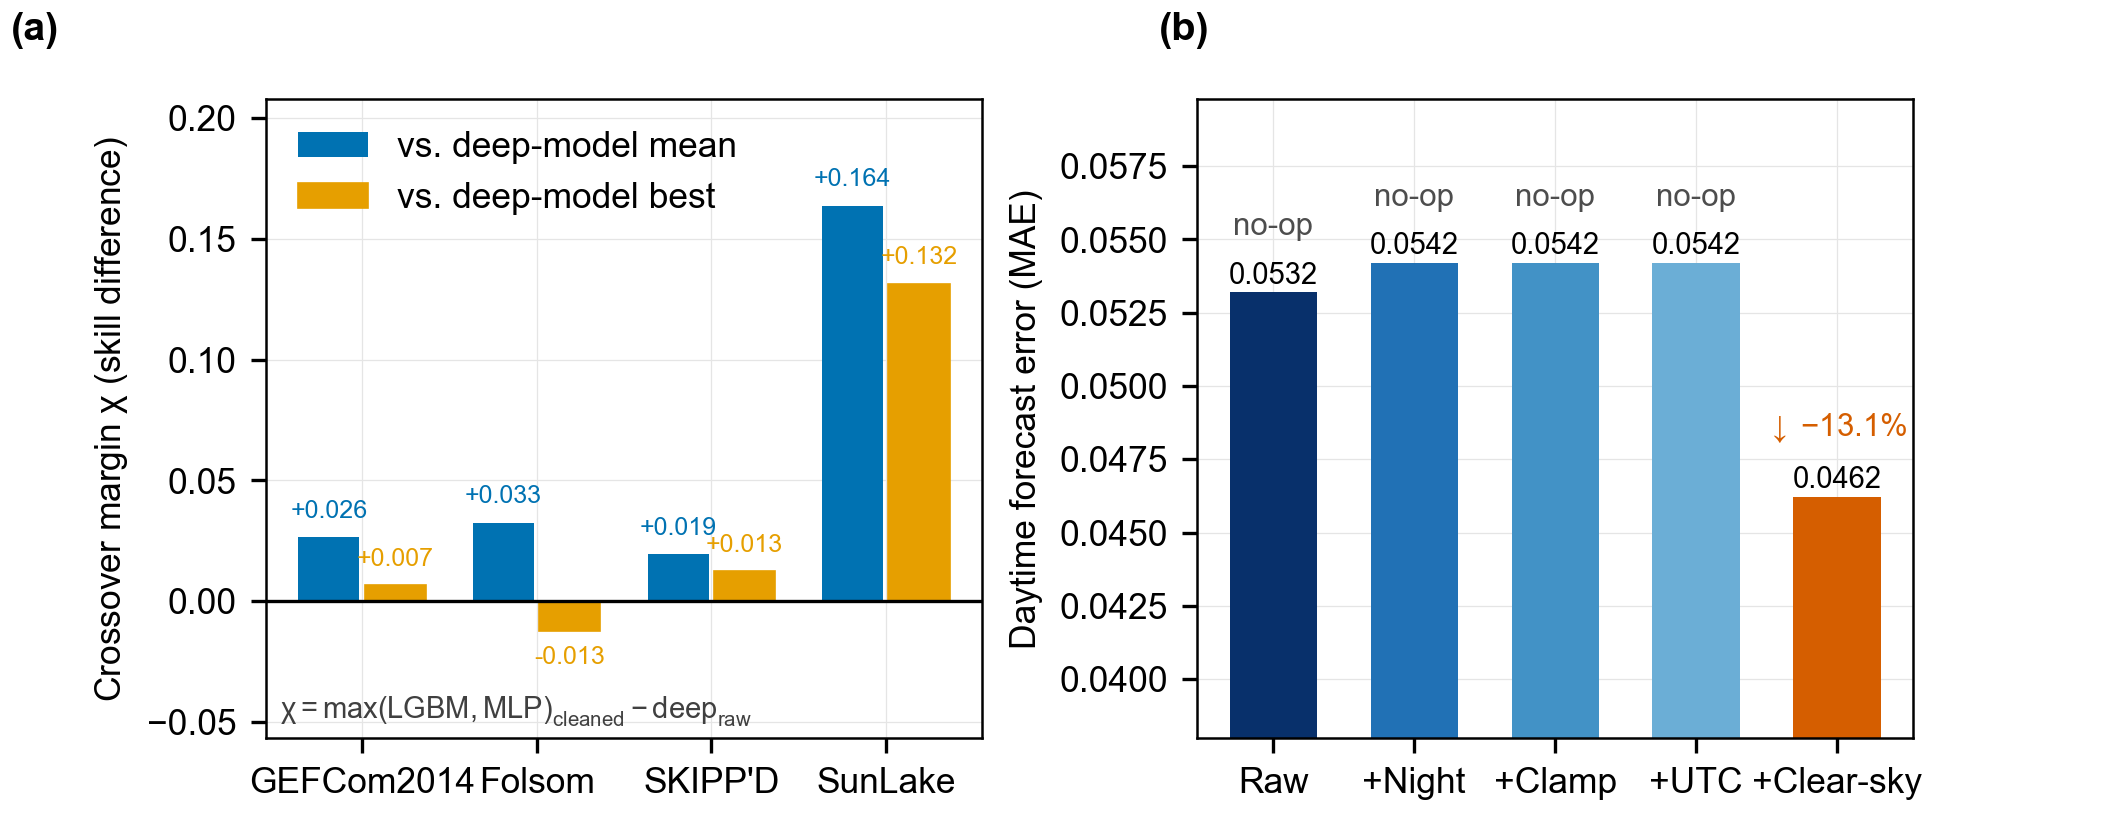
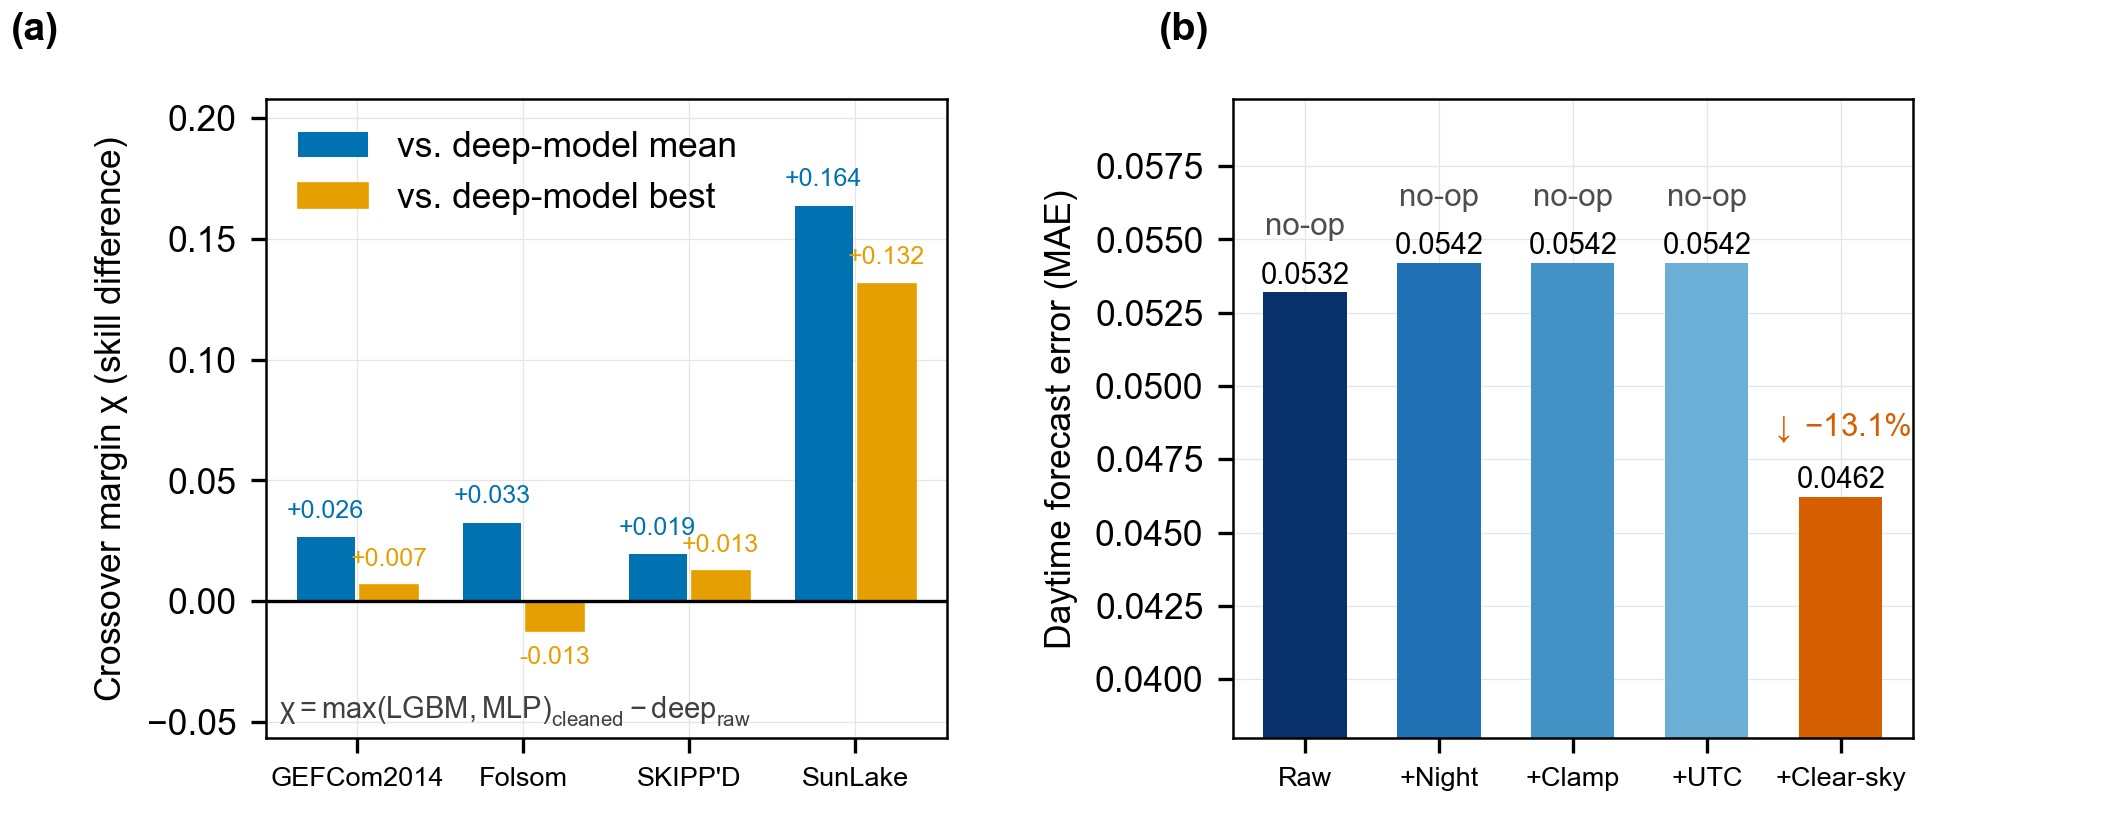
viz(essd-fig1): x tick labels to 6.5pt; inter-panel wspace 0.30 -> 0.42

diff --git a/scripts/plot_essd_figures.py b/scripts/plot_essd_figures.py
@@ -159,7 +159,7 @@ def fig1() -> None:
 
     fig, (ax1, ax2) = plt.subplots(
         1, 2, figsize=(WIDTH_MM * mm, HEIGHT_MM * mm * 0.78),
-        gridspec_kw={"wspace": 0.30},
+        gridspec_kw={"wspace": 0.42},   # breathing room between (a) and (b)
     )
     xpos = np.arange(len(DS_ORDER))
     b1 = ax1.bar(xpos - 0.19, margins_mean, width=0.35, facecolor="#0072B2",
@@ -176,7 +176,8 @@ def fig1() -> None:
                      ha="center", va=va, fontsize=TEXT_SIZE_PT - 2.5, color=col)
     lo = min(margins_mean + margins_best); hi = max(margins_mean + margins_best)
     ax1.set_ylim(lo - 0.25 * (hi - lo), hi + 0.25 * (hi - lo))
-    ax1.set_xticks(xpos, [DS_LABELS[d] for d in DS_ORDER])
+    ax1.set_xticks(xpos, [DS_LABELS[d] for d in DS_ORDER],
+                   fontsize=TEXT_SIZE_PT - 2)
     ax1.set_ylabel(r"Crossover margin $\chi$ (skill difference)")
     ax1.legend(frameon=False, loc="upper left")
     # The chi definition formula, lower-left (kept from the gemini figure).
@@ -201,7 +202,7 @@ def fig1() -> None:
     ax2.text(4, mae[4] + 0.22 * span, r"$\downarrow$ $-13.1\%$",
              ha="center", va="bottom", fontsize=TEXT_SIZE_PT - 1,
              color="#D55E00", fontweight="bold")
-    ax2.set_xticks(np.arange(len(mae)), steps)
+    ax2.set_xticks(np.arange(len(mae)), steps, fontsize=TEXT_SIZE_PT - 2)
     ax2.set_ylabel(r"Daytime forecast error (MAE)")
     ax2.set_ylim(0.038, mae.max() + 0.70 * span)
     _no_minor(ax2)
